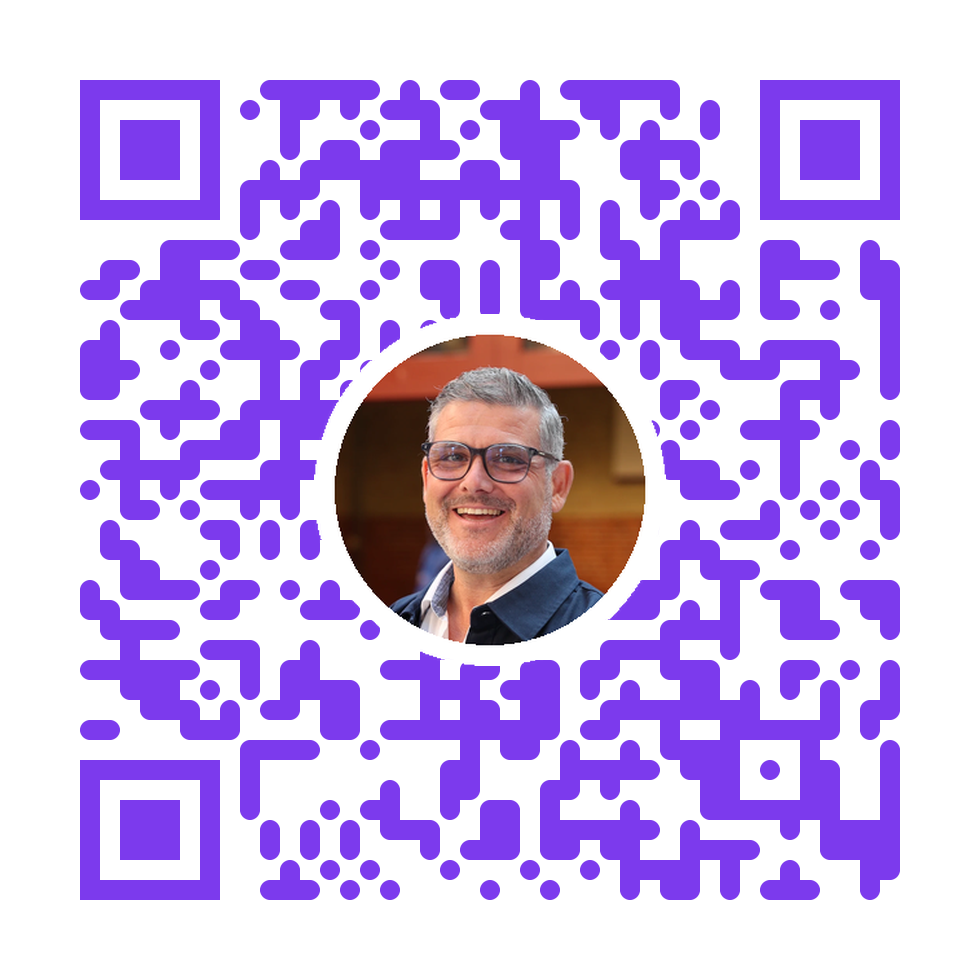
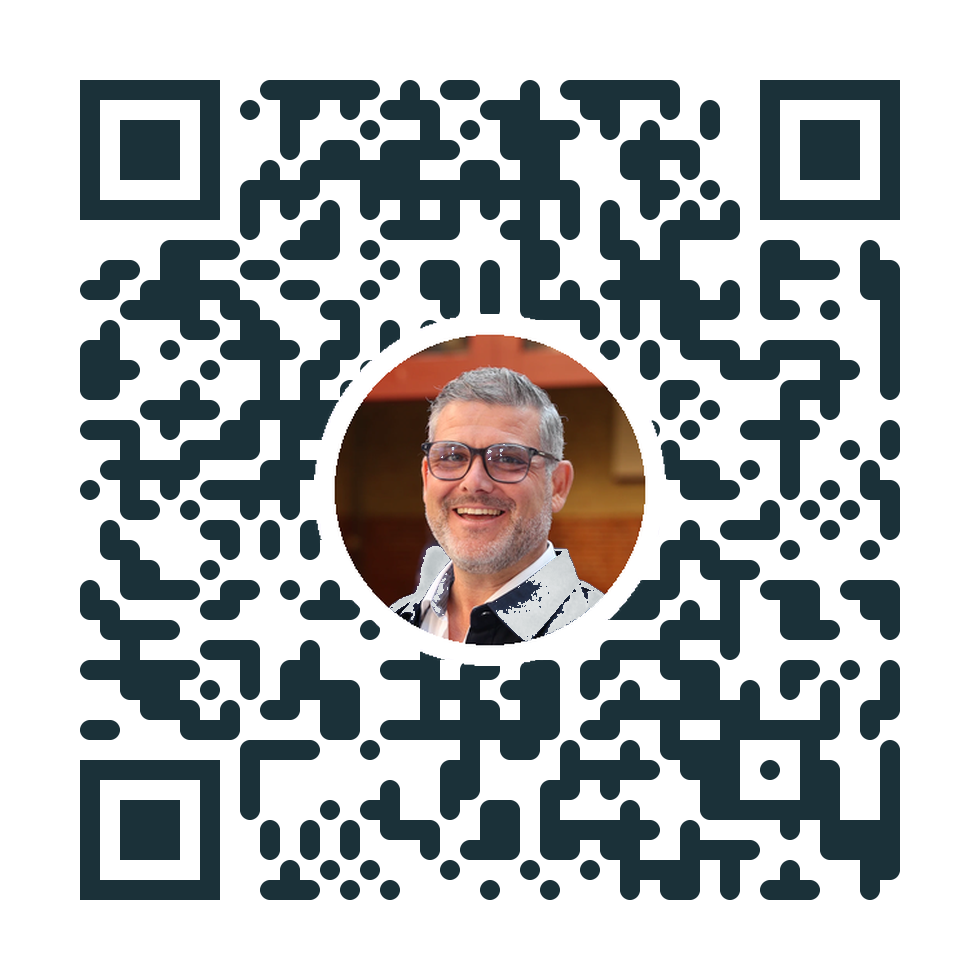
Recolor contact QR codes to template navy
Swap the violet (#7C3AED) QR modules to navy #1B3139 to match the
site palette, keeping the white background and center headshots
untouched. Bump img cache-busting to v=2.

diff --git a/pages/contact.html b/pages/contact.html
@@ -20,22 +20,22 @@
 
 <div class="qrgrid">
   <a class="qrcard" href="https://www.linkedin.com/in/emil-zahlander-raue-9aa70027/" target="_blank" rel="noopener">
-    <img src="../assets/contact/qr_emil.png" alt="LinkedIn QR code for Emil Zahländer Raue">
+    <img src="../assets/contact/qr_emil.png?v=2" alt="LinkedIn QR code for Emil Zahländer Raue">
     <div class="name">Emil Zahländer Raue</div>
     <div class="cta">Connect on LinkedIn →</div>
   </a>
   <a class="qrcard" href="https://www.linkedin.com/in/dan-jacobsson-ba95315/" target="_blank" rel="noopener">
-    <img src="../assets/contact/qr_dan.png" alt="LinkedIn QR code for Dan Jacobsson">
+    <img src="../assets/contact/qr_dan.png?v=2" alt="LinkedIn QR code for Dan Jacobsson">
     <div class="name">Dan Jacobsson</div>
     <div class="cta">Connect on LinkedIn →</div>
   </a>
   <a class="qrcard" href="https://www.linkedin.com/in/julia-førde-725258100/" target="_blank" rel="noopener">
-    <img src="../assets/contact/qr_julia.png" alt="LinkedIn QR code for Julia Førde">
+    <img src="../assets/contact/qr_julia.png?v=2" alt="LinkedIn QR code for Julia Førde">
     <div class="name">Julia Førde</div>
     <div class="cta">Connect on LinkedIn →</div>
   </a>
   <a class="qrcard" href="https://www.linkedin.com/in/sagar-omar-8029a7137/" target="_blank" rel="noopener">
-    <img src="../assets/contact/qr_sagar.png" alt="LinkedIn QR code for Sagar Omar">
+    <img src="../assets/contact/qr_sagar.png?v=2" alt="LinkedIn QR code for Sagar Omar">
     <div class="name">Sagar Omar</div>
     <div class="cta">Connect on LinkedIn →</div>
   </a>
